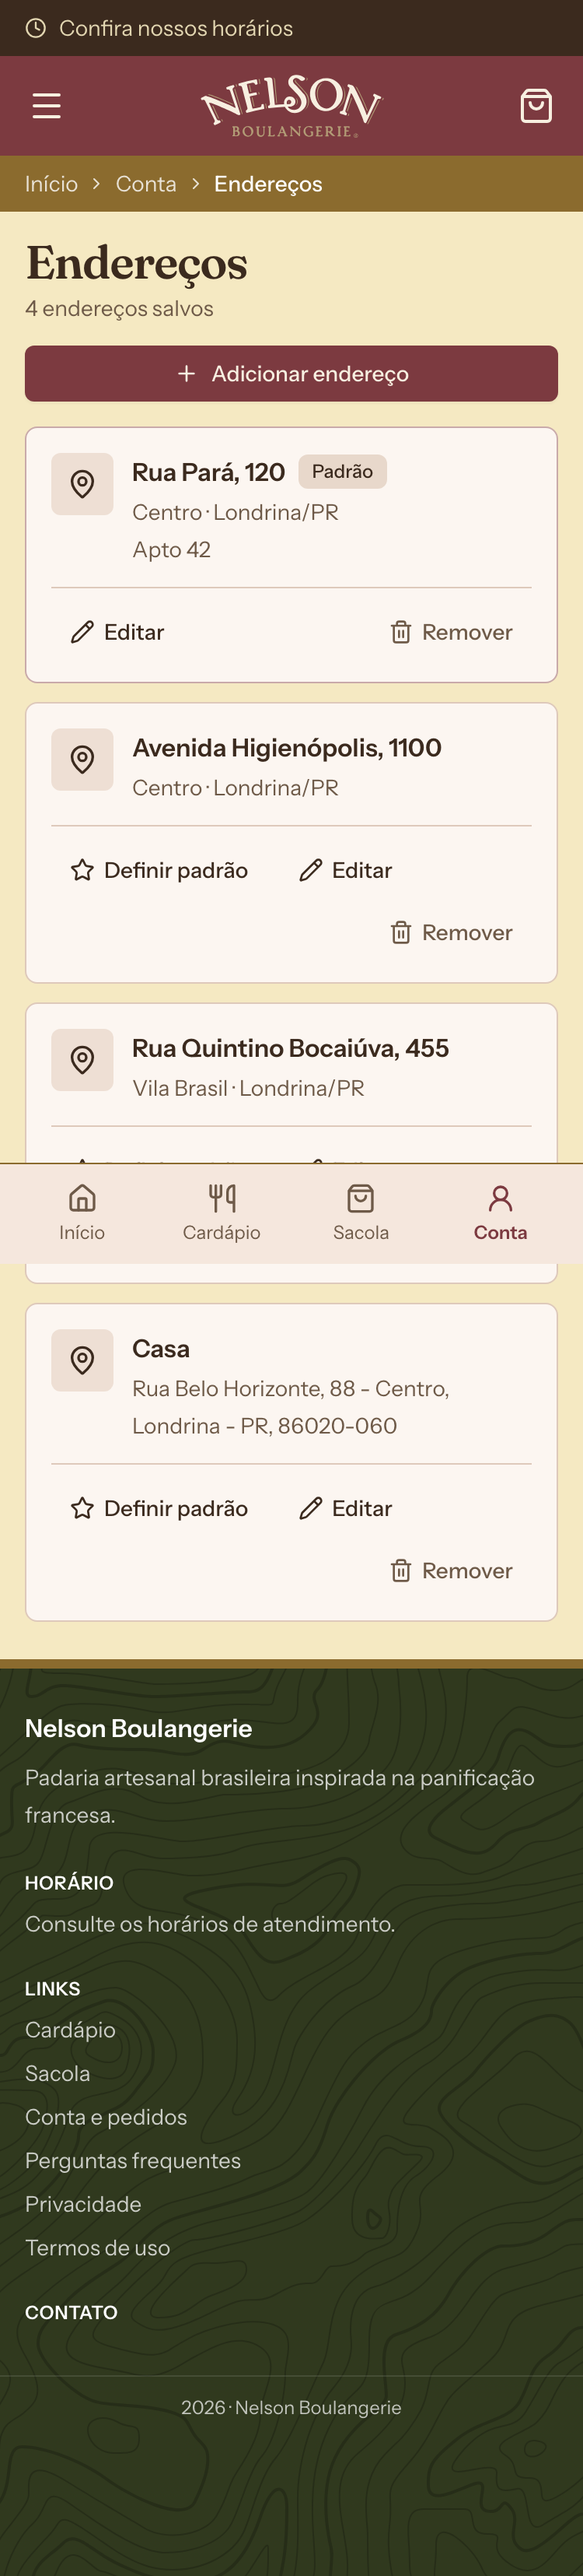
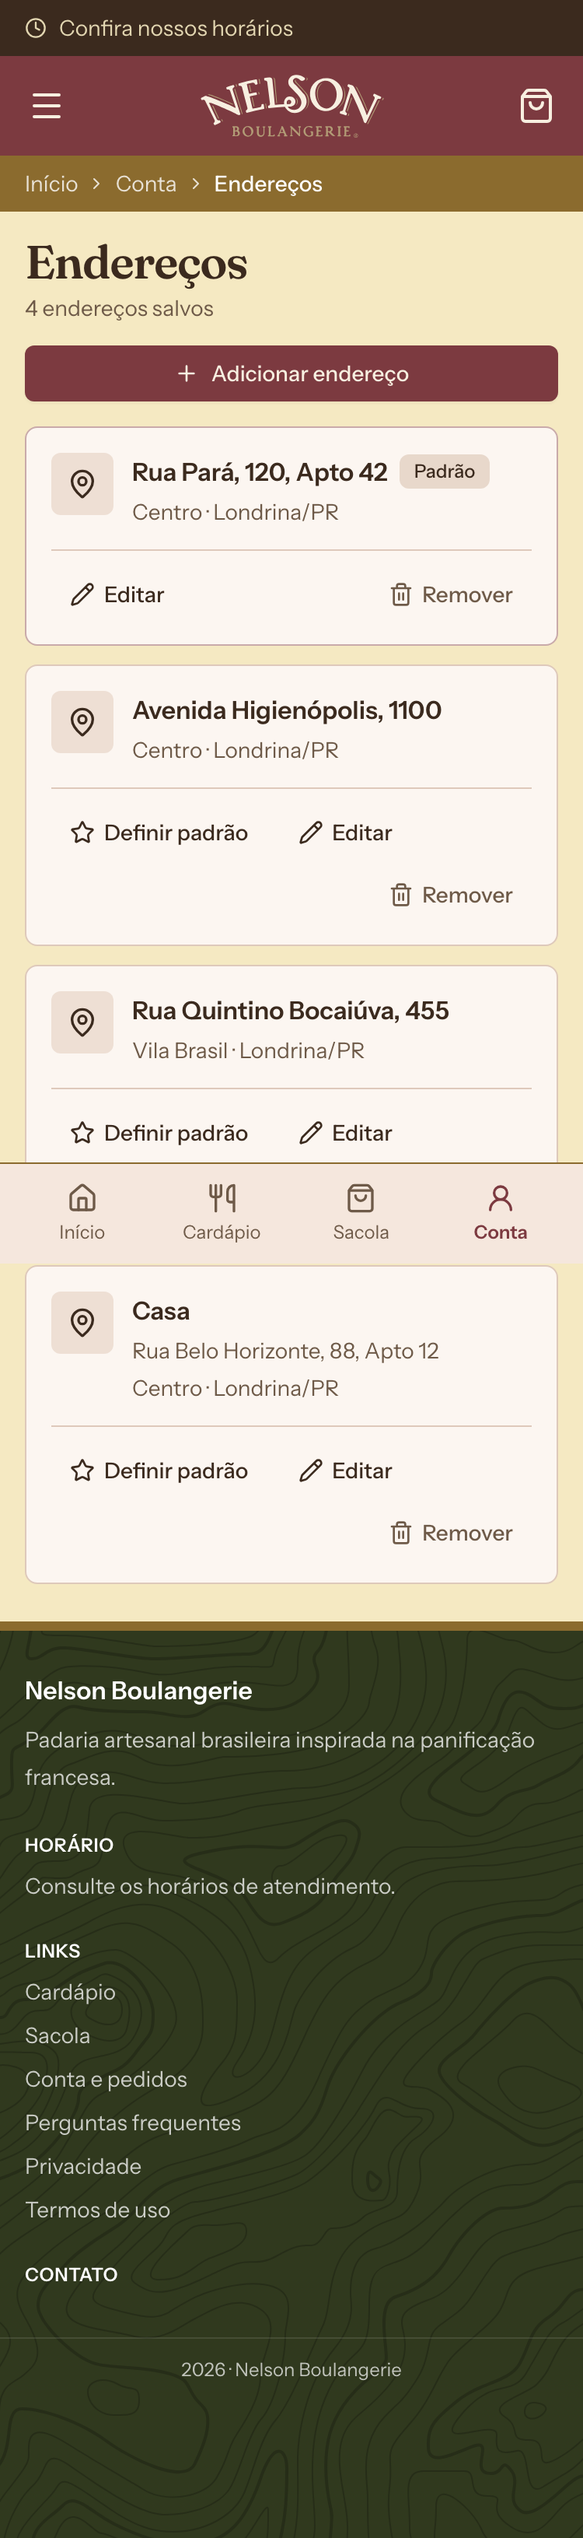
fix(loja): endereço salvo lê igual com e sem etiqueta (#2775)
Auditoria da coordenação: o endereço com etiqueta ("Casa") ainda vinha no
formato antigo, com hífen e CEP, ao lado do sem etiqueta já no formato do
PDV. Agora `savedAddressLines` é a única que monta as linhas, na conta e
no seletor do checkout: a rua com o número e o complemento, e embaixo o
bairro e a cidade, sem o CEP. Com etiqueta, três linhas; sem etiqueta,
duas. Cadastro sem a rua separada continua com o endereço inteiro.
Capturas de 375 px refeitas.

diff --git a/surfaces/storefront-nuxt/app/presentation/address.ts b/surfaces/storefront-nuxt/app/presentation/address.ts
@@ -195,18 +195,30 @@ export function savedAddressTag (address: Pick<SavedAddressProjection, 'label' |
   return (address.label || '').trim()
 }
 
-// As duas linhas de um endereço salvo numa lista. Com etiqueta: a etiqueta e,
-// embaixo, o endereço. Sem etiqueta: a rua com o número e, embaixo, o bairro e a
-// cidade, como o PDV lista o mesmo endereço (#2775). Cadastro sem a rua separada
-// (ou reduzido, sem rua): a linha é o endereço inteiro.
-export function savedAddressLines (address: Pick<SavedAddressProjection, 'label' | 'label_key' | 'label_custom' | 'formatted_address' | 'route' | 'street_number' | 'neighborhood' | 'city' | 'state_code'>): { title: string, detail: string } {
-  const place = (address.formatted_address || '').trim()
+// As linhas de um endereço salvo numa lista, montadas num lugar só para a conta e
+// para o checkout (#2775), no mesmo formato em que o PDV lista o mesmo endereço:
+// a rua com o número e o complemento ("Rua Belo Horizonte, 540, Apto 12") e, embaixo,
+// o bairro e a cidade ("Centro · Londrina/PR"). O CEP não aparece.
+//   com etiqueta: a etiqueta, a rua, o bairro e a cidade (três linhas);
+//   sem etiqueta: a rua, o bairro e a cidade (duas linhas; quem fala é o endereço).
+// Cadastro sem a rua separada (antigo, ou reduzido, sem rua): a linha da rua é o
+// endereço inteiro, com o complemento, e não há linha de bairro e cidade.
+export function savedAddressLines (address: Pick<SavedAddressProjection, 'label' | 'label_key' | 'label_custom' | 'formatted_address' | 'complement' | 'route' | 'street_number' | 'neighborhood' | 'city' | 'state_code'>): { title: string, lines: string[] } {
+  const clean = (value: unknown) => String(value ?? '').replace(/\s+/g, ' ').trim()
+  const complement = clean(address.complement)
+  const route = clean(address.route)
+  let street: string
+  let place = ''
+  if (route) {
+    street = [route, clean(address.street_number), complement].filter(Boolean).join(', ')
+    const cityState = [clean(address.city), clean(address.state_code)].filter(Boolean).join('/')
+    place = [clean(address.neighborhood), cityState].filter(Boolean).join(' · ')
+  } else {
+    street = [clean(address.formatted_address), complement].filter(Boolean).join(', ')
+  }
   const tag = savedAddressTag(address)
-  if (tag) return { title: tag, detail: place }
-  const street = [address.route, address.street_number].map(part => (part || '').trim()).filter(Boolean).join(', ')
-  if (!(address.route || '').trim()) return { title: place, detail: '' }
-  const cityState = [address.city, address.state_code].map(part => (part || '').trim()).filter(Boolean).join('/')
-  return { title: street, detail: [(address.neighborhood || '').trim(), cityState].filter(Boolean).join(' · ') }
+  const all = [tag, street, place].filter(Boolean)
+  return { title: all[0] || '', lines: all.slice(1) }
 }
 
 // A frase da busca por CEP sem resultado (beta SMS-01). "Não achamos" só quando o

diff --git a/surfaces/storefront-nuxt/tests/addressPresentation.test.ts b/surfaces/storefront-nuxt/tests/addressPresentation.test.ts
@@ -306,23 +306,41 @@ describe('label depois', () => {
     expect(savedAddressTag({ label: 'Entrega', label_key: 'other', label_custom: 'Entrega' })).toBe('Entrega')
   })
 
-  it('lists a labeled address by its label, with the address below', () => {
-    expect(savedAddressLines(savedAddress())).toEqual({ title: 'Casa', detail: savedAddress().formatted_address })
+  // #2775: com etiqueta, três linhas; sem etiqueta, duas. A rua leva o número e o
+  // complemento, como no PDV; embaixo, bairro e cidade; o CEP não aparece.
+  it('lists a labeled address as label, street and place', () => {
+    expect(savedAddressLines(savedAddress())).toEqual({
+      title: 'Casa',
+      lines: ['R. das Flores, 123, Apto 4B', 'Jardim · Londrina/PR']
+    })
   })
 
-  // Sem etiqueta, quem fala é o endereço: a rua com o número e, embaixo, o bairro e a
-  // cidade, como o PDV lista o mesmo endereço. Nada de "Outro" nem de "Entrega".
-  it('lists an address nobody labeled by its street', () => {
+  it('lists an address nobody labeled by its street, with the place below', () => {
     const untagged = savedAddress({ label: 'Outro', label_key: 'other', label_custom: '' })
     expect(savedAddressLines(untagged)).toEqual({
-      title: `${untagged.route}, ${untagged.street_number}`,
-      detail: `${untagged.neighborhood} · ${untagged.city}/${untagged.state_code}`
+      title: 'R. das Flores, 123, Apto 4B',
+      lines: ['Jardim · Londrina/PR']
+    })
+  })
+
+  it('the same address reads the same with or without a label', () => {
+    const tagged = savedAddressLines(savedAddress({ label: 'Mãe', label_key: 'other', label_custom: 'Mãe' }))
+    const untagged = savedAddressLines(savedAddress({ label: 'Outro', label_key: 'other', label_custom: '' }))
+    expect(tagged.lines).toEqual([untagged.title, ...untagged.lines])
+  })
+
+  it('leaves out empty parts without stray commas or dots', () => {
+    expect(savedAddressLines(savedAddress({ complement: '', neighborhood: '', state_code: '' }))).toEqual({
+      title: 'Casa',
+      lines: ['R. das Flores, 123', 'Londrina']
     })
   })
 
   it('falls back to the whole line when the street was not saved apart', () => {
     const legacy = savedAddress({ label: 'Outro', label_key: 'other', label_custom: '', route: '', street_number: '' })
-    expect(savedAddressLines(legacy)).toEqual({ title: legacy.formatted_address, detail: '' })
+    expect(savedAddressLines(legacy)).toEqual({ title: `${legacy.formatted_address}, Apto 4B`, lines: [] })
+    const legacyTagged = savedAddress({ route: '', street_number: '', complement: '' })
+    expect(savedAddressLines(legacyTagged)).toEqual({ title: 'Casa', lines: [legacyTagged.formatted_address] })
   })
 
   it('names the chosen label for the post-order confirmation', () => {

diff --git a/surfaces/storefront-nuxt/app/components/AddressPicker.vue b/surfaces/storefront-nuxt/app/components/AddressPicker.vue
@@ -1089,8 +1089,8 @@ function onLabelResolved () {
                 {{ savedAddressLines(address).title }}
                 <UiBadge v-if="address.is_default" variant="secondary">Padrão</UiBadge>
               </UiFieldTitle>
-              <UiFieldDescription v-if="savedAddressLines(address).detail || address.complement">
-                {{ [savedAddressLines(address).detail, address.complement].filter(Boolean).join(' · ') }}
+              <UiFieldDescription v-if="savedAddressLines(address).lines.length">
+                <span v-for="(line, index) in savedAddressLines(address).lines" :key="index" class="block">{{ line }}</span>
               </UiFieldDescription>
             </UiFieldContent>
             <UiButton

diff --git a/surfaces/storefront-nuxt/app/pages/conta/enderecos.vue b/surfaces/storefront-nuxt/app/pages/conta/enderecos.vue
@@ -160,8 +160,7 @@ useSeoMeta({ title: 'Endereços' })
                 {{ savedAddressLines(address).title }}
                 <UiBadge v-if="address.is_default" variant="secondary">Padrão</UiBadge>
               </div>
-              <p v-if="savedAddressLines(address).detail" class="mt-0.5 shop-muted">{{ savedAddressLines(address).detail }}</p>
-              <p v-if="address.complement" class="shop-muted">{{ address.complement }}</p>
+              <p v-for="(line, index) in savedAddressLines(address).lines" :key="index" class="shop-muted" :class="index === 0 ? 'mt-0.5' : ''">{{ line }}</p>
             </div>
           </div>
           <div class="flex flex-wrap gap-2 border-t pt-3">

diff --git a/docs/coordination/EVIDENCE/2775/README.md b/docs/coordination/EVIDENCE/2775/README.md
@@ -3,11 +3,13 @@
 - `enderecos-375-antes.png`: a página do `origin/main` com o dado de hoje. Os três
   endereços gravados por pedido de entrega dizem "Entrega", e só a linha de baixo
   distingue um do outro.
-- `enderecos-375-depois.png`: a página deste branch com o dado depois da `shop.0123`
-  (os mesmos três sem etiqueta). Quem fala é a rua com o número; embaixo, bairro e
-  cidade, como o PDV lista o mesmo endereço. O endereço com etiqueta ("Casa") não muda.
+- `enderecos-375-depois.png`: a página deste branch com o dado depois da `shop.0123`.
+  Uma função só (`savedAddressLines`) monta as linhas, no formato do PDV: a rua com o
+  número e o complemento ("Rua Belo Horizonte, 88, Apto 12") e, embaixo, o bairro e a
+  cidade ("Centro · Londrina/PR"), sem o CEP. Com etiqueta são três linhas (a etiqueta,
+  a rua, o bairro e a cidade); sem etiqueta, duas (quem fala é o endereço).
 - `*.audit.json`: medição de cada linha dos cartões (tamanho, peso, contraste contra o
-  fundo do cartão, corte, transbordo). Título 16 px/600 com contraste 12,76; linha de
+  fundo do cartão, corte, transbordo). Título 16 px/600 com contraste 12,76; linhas de
   baixo 14 px com 6,09 (a mesma classe `shop-muted` de antes). Nada cortado, nada
   transbordando, sem rolagem lateral.
 
